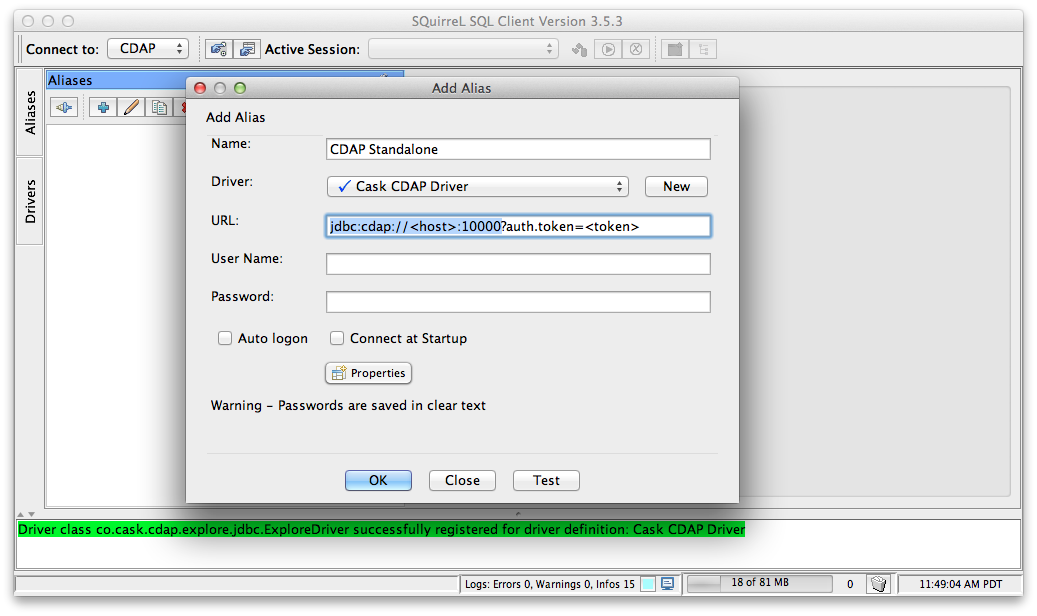
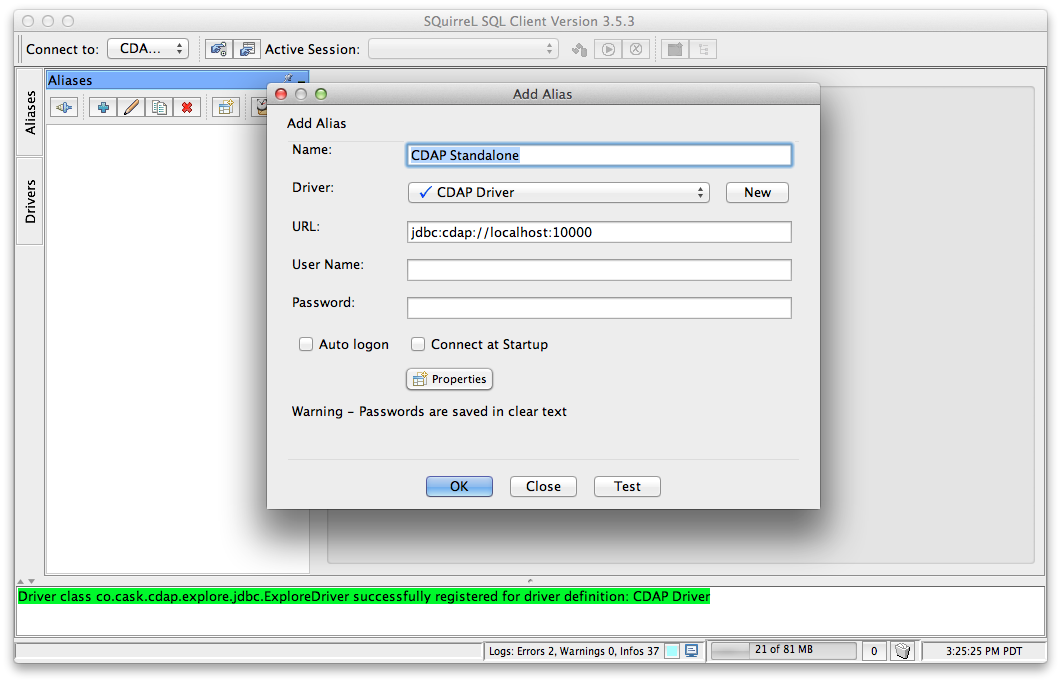
PR comments

Changed region(s): [[0.0, 0.0, 0.9875, 0.987]]

diff --git a/docs/developer-guide/source/query.rst b/docs/developer-guide/source/query.rst
@@ -298,10 +298,9 @@ Connecting to CDAP Datasets using CDAP JDBC driver
 Now that CDAP exposes a SQL interface, we have made available a JDBC driver that you can use in your code
 or in third party tools to connect to CDAP Datasets and execute SQL queries over them.
 
-The JDBC driver is a JAR that is bundled with CDAP SDK. You can find it at the root of your SDK, at
-``lib/co.cask.cdap.explore-jdbc-<version>.jar``.
+The JDBC driver is a JAR that is bundled with the CDAP SDK. You can find it in the ``lib``
+directory of your SDK installation at ``lib/co.cask.cdap.explore-jdbc-<version>.jar``.
 
- // NOTE: for the section below, we may want to tell users to download the jar from our website - figure this out
 If you don't have a CDAP SDK and only want to connect to an existing instance of CDAP, you can download the CDAP JDBC
 driver using this `link <https://repository.continuuity.com/content/repositories/releases-public/co/cask/cdap/explore-jdbc/>`__.
 Go to the directory matching the version of your running CDAP instance, and download the file named ``explore-jdbc-<version>.jar``.
@@ -324,40 +323,46 @@ If you are using Maven, you can simply add a dependency in your file ``pom.xml``
 Here is a snippet of Java code that uses the CDAP JDBC driver to connect to a running instance of CDAP,
 and executes a query over CDAP Datasets::
 
-  Class.forName("co.cask.cdap.explore.jdbc.ExploreDriver");  // First, register the driver once in your application
+  // First, register the driver once in your application
+  Class.forName("co.cask.cdap.explore.jdbc.ExploreDriver");
 
+  // If your CDAP instance requires a authorization token for connection,
+  // you have to specify it here.
+  // Replace <cdap-host> and <authorization_token> as appropriate to your installation.
   String connectionUrl = "jdbc:cdap://<cdap-host>:10000" +
-    "?auth.token=<authorization_token>";  // If your CDAP instance requires a authorization token for connection,
-                                          // you have to specify it here
+    "?auth.token=<authorization_token>";
 
-  Connection connection = DriverManager.getConnection(connectionUrl); // Connect to CDAP instance
+  // Connect to CDAP instance
+  Connection connection = DriverManager.getConnection(connectionUrl);
 
   // Execute a query over CDAP Datasets and retrieve the results
   ResultSet resultSet = connection.prepareStatement("select * from cdap_user_mydataset").executeQuery();
-  // ...
+  ...
 
-JDBC drivers are a standard in the Java ecosystem, and you can find more about how to use them at
-`this page <http://docs.oracle.com/javase/tutorial/jdbc/>`__.
+JDBC drivers are a standard in the Java ecosystem, with many `resources about them available
+<http://docs.oracle.com/javase/tutorial/jdbc/>`__.
 
-Access CDAP Datasets through Business Intelligence tools
---------------------------------------------------------
-Most Business Intelligence tools have a way to integrate with relational databases using JDBC drivers. They already
-make available a variety of drivers to connect to standard databases, like MySQL or PostgreSQL. They also allow
-to add non-standard JDBC drivers. This is what is being detailed in this section for two Business Intelligence
-tools - *SquirrelSQL* and *Pentaho Data Integration*. Let's see how it is possible to connect to a running CDAP instance
-and interact with CDAP Datasets using CDAP JDBC driver inside those tools.
+Accessing CDAP Datasets through Business Intelligence Tools
+-----------------------------------------------------------
+Most Business Intelligence tools can integrate with relational databases using JDBC drivers. They often include
+drivers to connect to standard databases such as MySQL or PostgreSQL.
+Most tools allow the addition of non-standard JDBC drivers.
+
+We'll look at two business intelligence tools — *SquirrelSQL* and *Pentaho Data Integration* —
+and see how it is possible to connect to a running CDAP instance and interact with
+CDAP Datasets using the CDAP JDBC driver.
 
 CDAP JDBC driver integration with SquirrelSQL
 .............................................
-*SquirrelSQL* is a simple JDBC client which allows to execute SQL queries over a variety of relational databases.
-Here is how we can add the CDAP JDBC driver inside *SquirrelSQL*.
+*SquirrelSQL* is a simple JDBC client which executes SQL queries against many different relational databases.
+Here's how to add the CDAP JDBC driver inside *SquirrelSQL*.
 
 #. Open the ``Drivers`` pane, located on the far left corner of *SquirrelSQL*.
 #. Click the ``+`` icon of the ``Drivers`` pane.
 
    .. image:: _images/jdbc/squirrel_drivers.png
 
-#. Add a new Driver by entering a ``Name``, for example ``Cask CDAP Driver``. The ``Example URL`` is of the form
+#. Add a new Driver by entering a ``Name``, such as ``CDAP Driver``. The ``Example URL`` is of the form
    ``jdbc:cdap://<host>:10000?auth.token=<token>``. The ``Website URL`` can be left blank. In the ``Class Name``
    field, enter ``co.cask.cdap.explore.jdbc.ExploreDriver``.
    Click on the ``Extra Class Path`` tab, then on ``Add``, and put the path to ``co.cask.cdap.explore-jdbc-<version>.jar``.
@@ -368,35 +373,35 @@ Here is how we can add the CDAP JDBC driver inside *SquirrelSQL*.
    *SquirrelSQL*.
 #. We can now create an alias to connect to a running instance of CDAP. Open the ``Aliases`` pane, and click on
    the ``+`` icon to create a new alias.
-#. In the ``Add Alias`` popup, choose a name. In this example, we are going to connect to a standalone CDAP
-   which we got running from the SDK. Our name will be ``CDAP Standalone``. Select the ``Cask CDAP Driver`` in
-   the list of available drivers. Our ``URL`` will be ``jdbc:cdap://localhost:10000``. Our standalone instance
-   does not require an authorization token, but if yours requires one, be sure to HTML encode your token
+#. In this example, we are going to connect to a standalone CDAP which we started running from the SDK.
+   The name for our alias will be ``CDAP Standalone``. Select the ``CDAP Driver`` in
+   the list of available drivers. Our URL will be ``jdbc:cdap://localhost:10000``. Our standalone instance
+   does not require an authorization token, but if yours requires one, HTML-encode your token
    and pass it as a parameter of the ``URL``. ``User Name`` and ``Password`` are left blank.
 
    .. image:: _images/jdbc/squirrel_add_alias.png
 
 #. Click on ``OK``. ``CDAP Standalone`` is now added to the list of aliases.
-#. A popup asks you to connect to your newly added alias. Click on ``Connect``, and *SquirrelSQL* will retrieve
-   information about your running CDAP instance Datasets.
+#. A popup asks you to connect to your newly-added alias. Click on ``Connect``, and *SquirrelSQL* will retrieve
+   information about your running CDAP Datasets.
 #. To execute a SQL query on your CDAP Datasets, go to the ``SQL`` tab, enter a query in the center field, and click
-   on the running man icon on top of the tab. Your results will show in the bottom half of *SquirrelSQL* main view.
+   on the "running man" icon on top of the tab. Your results will show in the bottom half of the *SquirrelSQL* main view.
 
    .. image:: _images/jdbc/squirrel_sql_query.png
 
 CDAP JDBC driver integration with Pentaho Data Integration
 ..........................................................
-*Pentaho Data Integration* is a more advanced open source Business Intelligence tool that allows to execute
-transformations of data coming from various sources. Let's see how it is possible to make it connect to
+*Pentaho Data Integration* is an advanced, open source business intelligence tool that can execute
+transformations of data coming from various sources. Let's see how to connect it to
 CDAP Datasets using the CDAP JDBC driver.
 
 #. Before opening the *Pentaho Data Integration* application, copy the ``co.cask.cdap.explore-jdbc-<version>.jar``
-   file in the ``lib`` directory of *Pentaho Data Integration*, located at the root of the application directory.
+   file in the ``lib`` directory of *Pentaho Data Integration*, located at the root of the application's directory.
 #. Open *Pentaho Data Integration*.
 #. In the toolbar, select ``File -> New -> Database Connection...``.
 #. In the ``General`` section, select a ``Connection Name``, like ``CDAP Standalone``. For the ``Connection Type``, select
-   ``Generic database``. Select ``Native (JDBC)`` for the ``Access`` field. In this example, we connect to a
-   standalone instance of CDAP, our ``Custom Connection URL`` will then be ``jdbc:cdap://localhost:10000``.
+   ``Generic database``. Select ``Native (JDBC)`` for the ``Access`` field. In this example, where we connect to
+   a standalone instance of CDAP, our ``Custom Connection URL`` will then be ``jdbc:cdap://localhost:10000``.
    In the field ``Custom Driver Class Name``, enter ``co.cask.cdap.explore.jdbc.ExploreDriver``.
 
    .. image:: _images/jdbc/pentaho_add_connection.png
@@ -407,17 +412,17 @@ CDAP Datasets using the CDAP JDBC driver.
 
    .. image:: _images/jdbc/pentaho_table_input.png
 
-#. Right click on the ``Table input`` in your transformation and select ``Edit step``. You can select a better name
-   for this input, like ``CDAP Datasets query``. Under ``Connection``, select the newly created database connection.
-   In this example, ``CDAP Standalone``. Enter a valid SQL query in the main ``SQL`` field. This will define the data
+#. Right-click on ``Table input`` in your transformation and select ``Edit step``. You can specify an appropriate name
+   for this input such as ``CDAP Datasets query``. Under ``Connection``, select the newly created database connection;
+   in this example, ``CDAP Standalone``. Enter a valid SQL query in the main ``SQL`` field. This will define the data
    available to your transformation.
 
    .. image:: _images/jdbc/pentaho_modify_input.png
 
 #. Click on ``OK``. Your input is now ready to be used in your transformation, and it will contain data coming
-   from the results of a SQL query on CDAP Datasets.
-#. For more information on how to add components to a transformation and link them together, see
-   `Pentaho Data Integration page <http://community.pentaho.com/projects/data-integration/>`__.
+   from the results of the SQL query on the CDAP Datasets.
+#. For more information on how to add components to a transformation and link them together, see the
+   `Pentaho Data Integration page \<http://community.pentaho.com/projects/data-integration/>`__.
 
 
 Formulating Queries
